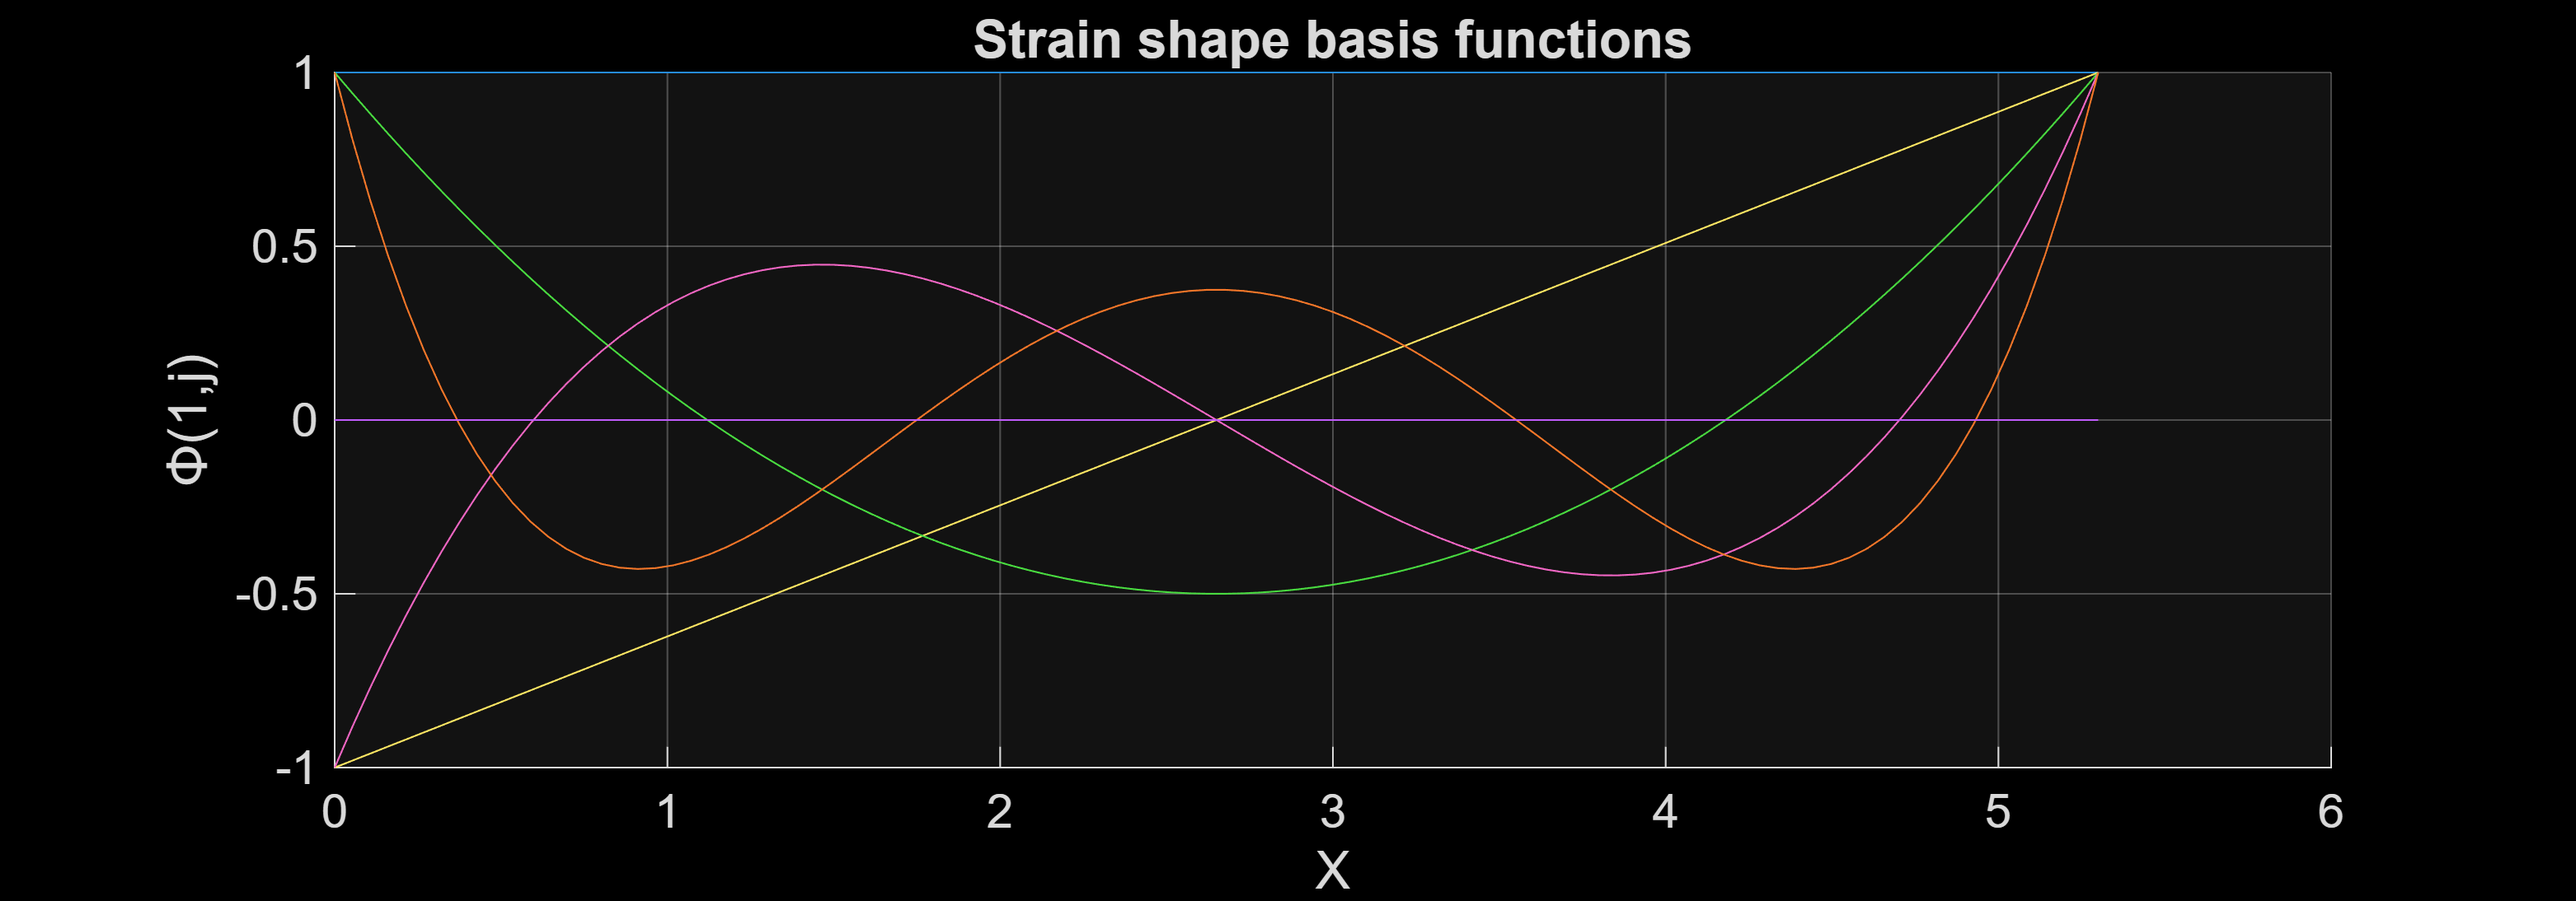
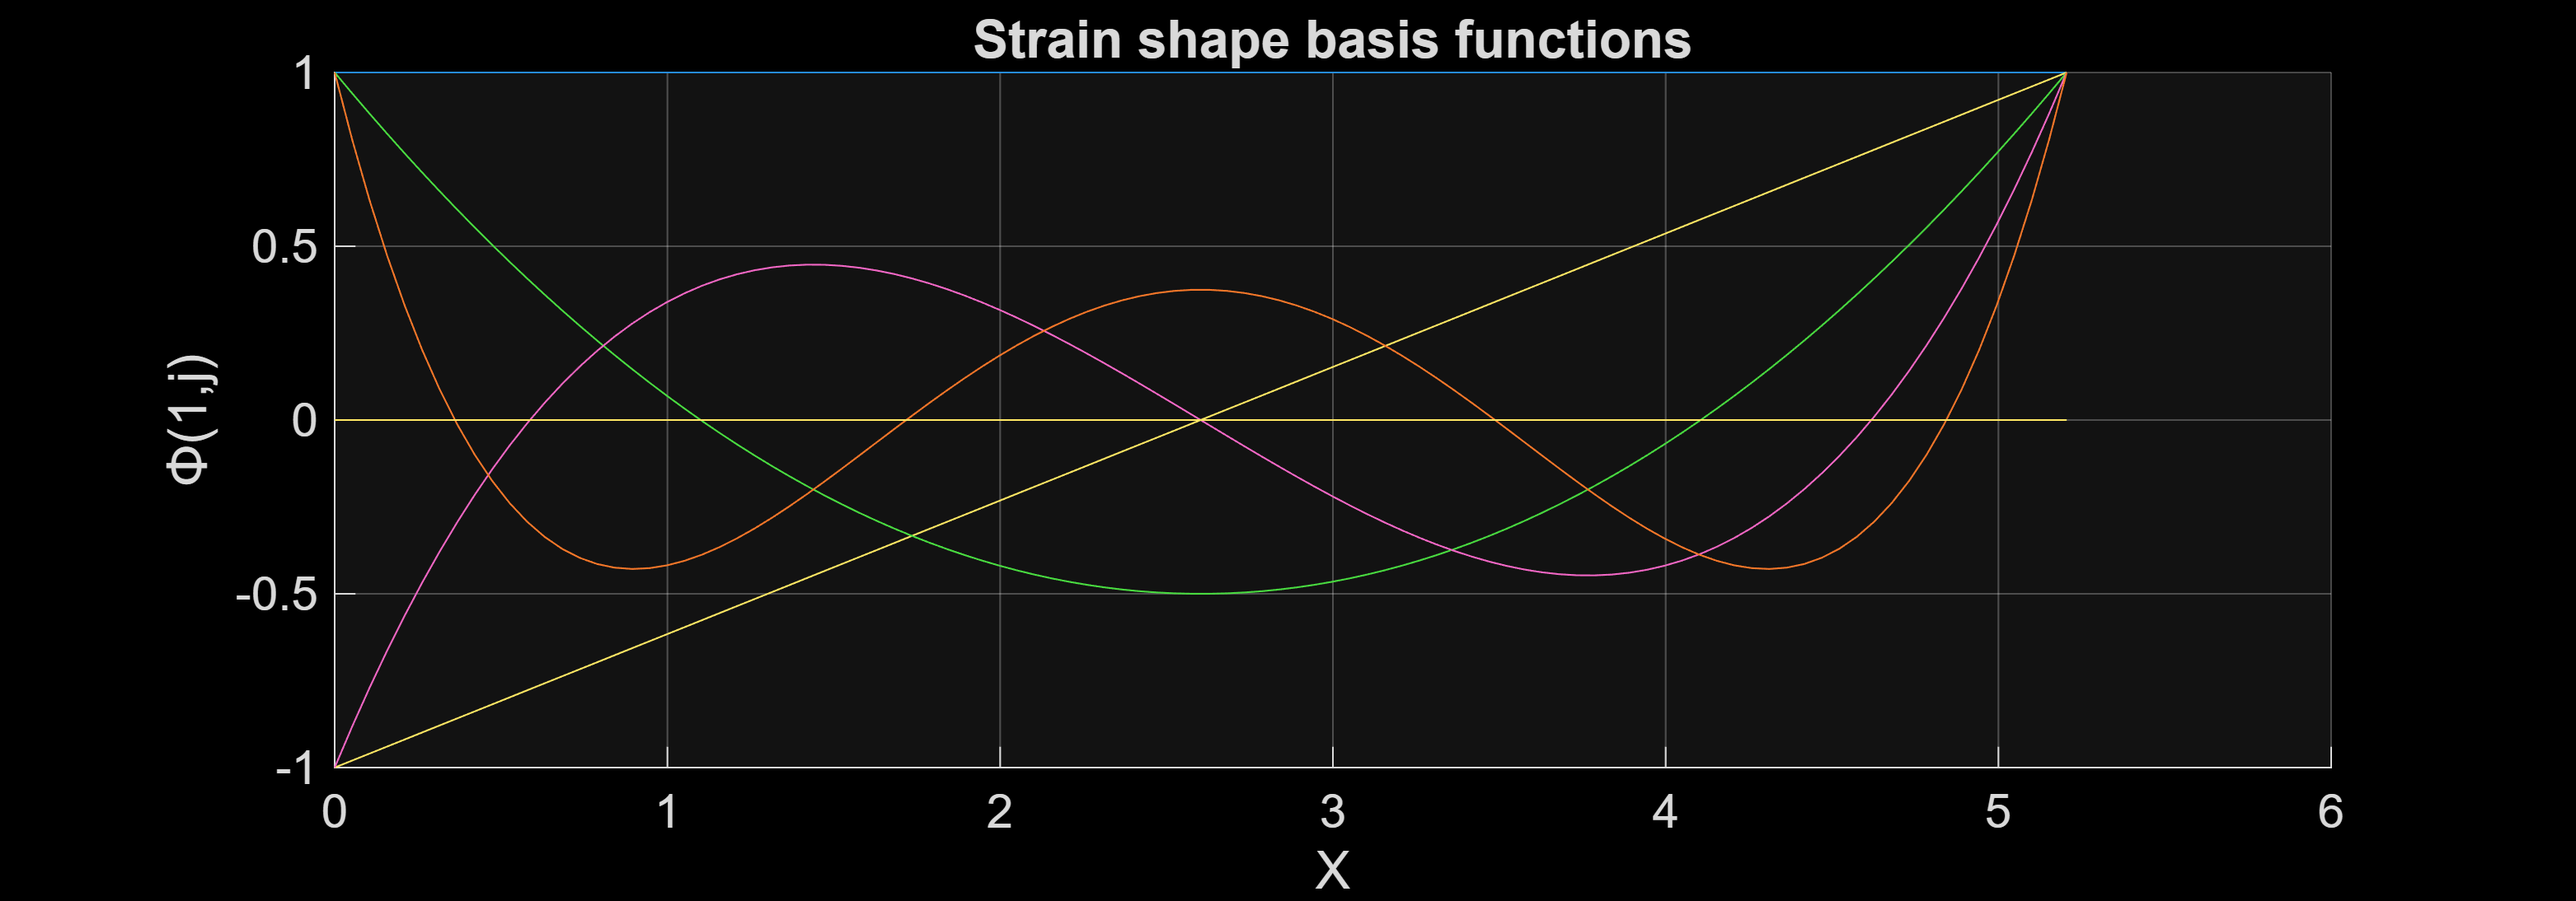
corrected Torsional warping!!

diff --git a/SorosimRod_files/MEG.m b/SorosimRod_files/MEG.m
@@ -73,20 +73,23 @@ elseif Link.CS=='SDU'   % Channel ("C") section
         w  = w_fn(Xs(ii));
 
         hw = h - 2*tf;
-
+        l_lip = tw;
         % Areas
         A_web = tw*hw;
         A_fl  = w*tf;
+        A_lip = 2*tf*l_lip;
 
-        A = A_web + 2*A_fl;
+        A = A_web + 2*A_fl + A_lip;
 
         % Centroid (z-direction)
         z_web = tw/2;
         z_fl  = tw + (w-tw)/2;
+        z_lip = w - tf/2;      % lip centroid in z-direction
 
         zc = ( ...
             A_web*z_web ...
-            + 2*A_fl*z_fl ) / A;
+            + 2*A_fl*z_fl ...
+            + A_lip*z_lip ) / A;
 
         % Centroidal Iy
         Iy_web = tw*hw^3/12;
@@ -94,54 +97,83 @@ elseif Link.CS=='SDU'   % Channel ("C") section
         Iy_fl_local = w*tf^3/12;
         y_fl = h/2 - tf/2;
 
+        y_lip = h/2 - tf - l_lip/2;
+        Iy_lip_local = tf*l_lip^3/12;
+
         Iy = Iy_web ...
-            + 2*(Iy_fl_local + A_fl*y_fl^2);
+            + 2*(Iy_fl_local + A_fl*y_fl^2) ...
+            + 2*(Iy_lip_local + (tf*l_lip)*y_lip^2);
 
         % Centroidal Iz
         Iz_web_local = hw*tw^3/12;
         Iz_fl_local  = tf*w^3/12;
-
+        Iz_lip_local = l_lip*tf^3/12;
+          
         Iz = ...
             (Iz_web_local + A_web*(z_web-zc)^2) ...
-            + 2*(Iz_fl_local + A_fl*(z_fl-zc)^2);
+            + 2*(Iz_fl_local + A_fl*(z_fl-zc)^2) ...
+            + 2*(Iz_lip_local + (tf*l_lip)*(z_lip - zc)^2);
 
         % Saint-Venant torsion constant
-        % J(ii) = (1/3)*( ...
-        %     2*w*tf^3 ...
-        %     + hw*tw^3 );
+        Jsv = (1/3)*( ...
+            2*w*tf^3 ...
+            + hw*tw^3 );
         
         % Torsional constant computed via Roarks Stress and Strain table 10.3 (1g) 
         t = Link.tw; 
         h_roark = Link.h{1}(0)-t;
         b_roark = Link.w{1}(0)-t/2;
 
-        %Compute K (Table 10.1, 25 (and 24))
-        a_K = (Link.h{1}(0)/2);
-        c_K = (Link.w{1}(0))-t;
-        K_L1 = a_K*t^3*((1/3)-0.21*(t/a_K)*(1-t^4/(12*(a_K^4))));
-        K_L2 = c_K*t^3*((1/3)-0.105*(t/c_K)*(1-t^4/(192*(c_K^4))));
-        % alpha_K = 0.07;
-        % D_K = 0;
-        K_L = K_L1+K_L2;
-        K = 2*K_L;
+        % % FOR CHANNEL (U) Compute K (Table 10.1, 25 (and 24))
+        % a_K = (Link.h{1}(0)/2);
+        % c_K = (Link.w{1}(0))-t;
+        % K_L1 = a_K*t^3*((1/3)-0.21*(t/a_K)*(1-t^4/(12*(a_K^4))));
+        % K_L2 = c_K*t^3*((1/3)-0.105*(t/c_K)*(1-t^4/(192*(c_K^4))));
+        % % alpha_K = 0.07;
+        % % D_K = 0;
+        % K_L = K_L1+K_L2;
+        % K = 2*K_L;
+        % G = Link.G; %CONFIRM!
+        % C_w = (h_roark^2*b_roark^3*t/12)*((2*h_roark+3*b_roark)/(h_roark+6*b_roark));
+        % E =Link.E;
+        % Beta = sqrt(K*G/(C_w*E));
+        % l = Link.L;
+
+        % FOR C-shape Compute K (Table 10.1, 25 (and 24))
+        b1_roark = l_lip+t/2;
+        e_roark = b_roark*(3*h_roark^2*b_roark + 6*h_roark^2*b1_roark-8*b1_roark^3)/(h_roark^3+6*h_roark^2*b_roark + 6*h_roark^2*b1_roark + 8*b1_roark^3 - 12*h_roark* b1_roark^2);
+        K = (t^3/3)*(h_roark+2*b_roark+2*b1_roark);
         G = Link.G; %CONFIRM!
-        C_w = (h_roark^2*b_roark^3*t/12)*((2*h_roark+3*b_roark)/(h_roark+6*b_roark));
+        C_w = t*((h_roark^2*b_roark^2/2)*(b1_roark + b_roark/3 - e_roark - 2*e_roark*b1_roark/b_roark + 2*b1_roark^2/h_roark) ...
+            + (h_roark^2*e_roark^2/2)*(b_roark+b1_roark+h_roark/6 - 2*b1_roark^2/h_roark)+(2*b1_roark^3/3)*(b_roark+e_roark)^2);
         E =Link.E;
         Beta = sqrt(K*G/(C_w*E));
         l = Link.L;
-        
-        J(ii) = l*E*C_w*Beta^3/(4*G*((Beta*l)/4-tanh((Beta*l)/4)));
+
+        % J(ii) = l*E*C_w*Beta^3/(4*G*((Beta*l)/4-tanh((Beta*l)/4)));
+
+        J(ii) = 48*C_w/l^2;
 
         A_p(ii)  = A;
         Iy_p(ii) = Iy;
         Iz_p(ii) = Iz;
         Ix_p(ii) = J(ii);
 
-        esc = ...
-            3*w*tf*(h-tf)^2 / ...
-            (6*w*tf*(h-tf) + hw*tw^2);
+        %For U Channel
+        % esc = ...
+        %     3*w*tf*(h-tf)^2 / ...
+        %     (6*w*tf*(h-tf) + hw*tw^2);
 
-        esc_p(ii) = esc;
+        esc = ...
+            ( 3*w*tf*(h-tf)^2 ...
+            + 6*l_lip*tf*(w-tf/2)*(h-tf) ) ...
+            /( 6*w*tf*(h-tf) ...
+            + 2*l_lip*tf*(h-tf) ...
+            + hw*tw^2 );
+
+        %esc_p(ii) = esc;
+        %esc_p(ii) = 0.0;
+
     end
 end
 
@@ -163,16 +195,19 @@ if Link.CS =='SDU'   % Channel ("C") section
         e = esc_p(ii);
 
         K = zeros(6);
-
-        K(1,1) = G*Js_p(ii) + G*A_p(ii)*e^2;
+        
+        K(1,1) = G*Js_p(ii); %+ G*A_p(ii)*e^2;
 
         K(2,2) = E*Iy_p(ii);
         K(3,3) = E*Iz_p(ii);
 
         K(4,4) = E*A_p(ii);
 
-        K(5,5) = G*A_p(ii);
-        K(6,6) = G*A_p(ii);
+        kappa = 0.3; %Timoshenko shear
+        %kappa = 1.0; %Timoshenko shear
+        
+        K(5,5) = kappa*G*A_p(ii);
+        K(6,6) = kappa*G*A_p(ii);
 
         K(1,6) = -G*A_p(ii)*e;
         K(6,1) = -G*A_p(ii)*e;

diff --git a/equilibrium_plot_script.m b/equilibrium_plot_script.m
@@ -5,7 +5,7 @@
 addpath(".\data\equil_data\")
 plot_script2_config1
 
-constraint_configs = ["centre"; "both_ends";"three_points"];
+constraint_configs = ["centre"; "both_ends"];
 %constraint_configs = ["centre"; "both_ends";"three_points"];
 names = ["Constraint (a)"; "Constraint (b)"; "Constraint (c)"];
 
@@ -119,19 +119,14 @@ nexttile;
 
 
 for j = 1:length(constraint_configs)
-    % plot(s_range, local_rotation(:,1,j), ...
-    %     '-', ...
-    %     'LineWidth',2.0, ...
-    %     'Color',[0 0.4470 0.7410]);
-    % hold on
-    
+
     % h_pitch = plot(s_range, -local_rotation(:,2,j), ...
     %     styles{j}, ...
     %     'LineWidth',2.0);
 
 
     % Smooth the profile
-    z_smooth = smoothdata(carriage_def(:,3,j),'sgolay',21);
+    z_smooth = smoothdata(carriage_def(:,3,j),'sgolay',501);
     theta = gradient(z_smooth,s_range);
 
     local_rotation_numerical = atan(theta); % radians
@@ -159,6 +154,7 @@ x = z_data(:,1);
 z = z_data(:,2);
 
 % Smooth the profile
+%z_smooth = smoothdata(z,'sgolay',21);
 z_smooth = smoothdata(z,'sgolay',21);
 theta = gradient(z_smooth,x);
 
@@ -305,6 +301,16 @@ for j = 1:length(constraint_configs)
     %leg{end+1} = sprintf('$y$, %s', names{j});
     leg{end+1} = sprintf(names{j});
 end
+
+mean_z_def_ansys = (z_r_data(:,2)+z_l_data(:,2))/2;
+
+h_ansys = plot(z_r_data(:,1), mean_z_def_ansys, ...
+    'o', ...
+    'MarkerSize', 4, ...
+    'Color', c_green);
+h = [h h_ansys];
+leg{end+1} = 'ANSYS';
+
 % h_ansys = plot(z_data(:,1), z_data(:,2), ...
 %     'o', ...
 %     'MarkerSize', 4, ...
@@ -449,6 +455,7 @@ h_ansys = plot(z_r_data(:,1), roll_ansys, ...
     'o', ...
     'MarkerSize', 4, ...
     'Color', c_green);
+leg{end+1} = 'ANSYS';
 
 h = [h h_ansys];
 

diff --git a/link_parameters/RailParameters.m b/link_parameters/RailParameters.m
@@ -9,6 +9,7 @@ function RailLink = makeRailLink()
     CS = 'SDU'; %'C' for circular, 'R' for circular, 'E' for circular, 'SDU' for the C-rail
     %L = 5.415;
     L = 5.3;
+    L = 5.205;
     %L = 25.415;
     Rho = 7850;
     %Rho = 2700;
